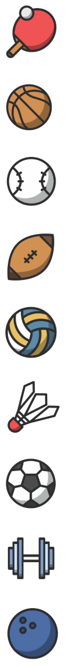
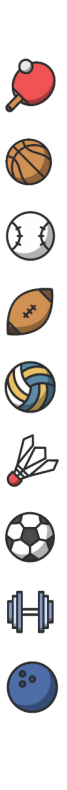
fix indexes in slot machine

diff --git a/CS179-Serverside/SelectSports/src/app/daily-login/daily-login.component.css b/CS179-Serverside/SelectSports/src/app/daily-login/daily-login.component.css
@@ -44,7 +44,7 @@
   top: 0;
   left: 0;
   width: 100%;
-  animation: reelRoll 0.5s linear infinite;
+  animation: reelRoll 0.3s linear infinite;
 }
 
 .rolling_reel-image-2 {
@@ -52,7 +52,7 @@
   top: 0;
   left: 0;
   width: 100%;
-  animation: reelRoll 0.5s linear infinite;
+  animation: reelRoll 0.3s linear infinite;
 }
 
 .rolling_reel-image-3 {
@@ -60,7 +60,7 @@
   top: 0;
   left: 0;
   width: 100%;
-  animation: reelRoll 0.5s linear infinite;
+  animation: reelRoll 0.3s linear infinite;
 }
 
 .rolling_reel-image-11 {
@@ -68,7 +68,7 @@
   top: 0;
   left: 0;
   width: 100%;
-  animation: reelRoll1 0.5s linear infinite;
+  animation: reelRoll1 0.3s linear infinite;
 }
 
 .rolling_reel-image-12 {
@@ -76,7 +76,7 @@
   top: 0;
   left: 0;
   width: 100%;
-  animation: reelRoll2 0.5s linear infinite;
+  animation: reelRoll2 0.3s linear infinite;
 }
 
 .rolling_reel-image-13 {
@@ -84,7 +84,7 @@
   top: 0;
   left: 0;
   width: 100%;
-  animation: reelRoll3 0.5s linear infinite;
+  animation: reelRoll3 0.3s linear infinite;
 }
 
 .rolling_reel-image-14 {
@@ -92,7 +92,7 @@
   top: 0;
   left: 0;
   width: 100%;
-  animation: reelRoll4 0.5s linear infinite;
+  animation: reelRoll4 0.3s linear infinite;
 }
 
 .rolling_reel-image-15 {
@@ -100,7 +100,7 @@
   top: 0;
   left: 0;
   width: 100%;
-  animation: reelRoll5 0.5s linear infinite;
+  animation: reelRoll5 0.3s linear infinite;
 }
 
 .rolling_reel-image-16 {
@@ -108,7 +108,7 @@
   top: 0;
   left: 0;
   width: 100%;
-  animation: reelRoll6 0.5s linear infinite;
+  animation: reelRoll6 0.3s linear infinite;
 }
 
 .rolling_reel-image-17 {
@@ -116,7 +116,7 @@
   top: 0;
   left: 0;
   width: 100%;
-  animation: reelRoll7 0.5s linear infinite;
+  animation: reelRoll7 0.3s linear infinite;
 }
 
 .rolling_reel-image-18 {
@@ -124,7 +124,7 @@
   top: 0;
   left: 0;
   width: 100%;
-  animation: reelRoll8 0.5s linear infinite;
+  animation: reelRoll8 0.3s linear infinite;
 }
 
 .rolling_reel-image-19 {
@@ -132,7 +132,7 @@
   top: 0;
   left: 0;
   width: 100%;
-  animation: reelRoll9 0.5s linear infinite;
+  animation: reelRoll9 0.3s linear infinite;
 }
 
 .symbol {
@@ -150,81 +150,81 @@
 
 @keyframes reelRoll1 {
   0% {
-    transform: translateY(-5.55%);
+    transform: translateY(-3%);
   }
   100% {
-    transform: translateY(-5.55%);
+    transform: translateY(-3%);
   }
 }
 
 @keyframes reelRoll2 {
   0% {
-    transform: translateY(-16.667%);
+    transform: translateY(-12%);
   }
   100% {
-    transform: translateY(-16.667%);
+    transform: translateY(-12%);
   }
 }
 
 @keyframes reelRoll3 {
   0% {
-    transform: translateY(-27.778%);
+    transform: translateY(-21.5%);
   }
   100% {
-    transform: translateY(-27.778%);
+    transform: translateY(-21.5%);
   }
 }
 
 @keyframes reelRoll4 {
   0% {
-    transform: translateY(-38.889%);
+    transform: translateY(-32%);
   }
   100% {
-    transform: translateY(-38.889%);
+    transform: translateY(-32%);
   }
 }
 
 @keyframes reelRoll5 {
   0% {
-    transform: translateY(-50%);
+    transform: translateY(-41.3%);
   }
   100% {
-    transform: translateY(-50%);
+    transform: translateY(-41.3%);
   }
 }
 
 @keyframes reelRoll6 {
   0% {
-    transform: translateY(-61.111%);
+    transform: translateY(-51%);
   }
   100% {
-    transform: translateY(-61.111%);
+    transform: translateY(-51%);
   }
 }
 
 @keyframes reelRoll7 {
   0% {
-    transform: translateY(-72.222%);
+    transform: translateY(-60%);
   }
   100% {
-    transform: translateY(-72.222%);
+    transform: translateY(-60%);
   }
 }
 
 @keyframes reelRoll8 {
   0% {
-    transform: translateY(-83.333%);
+    transform: translateY(-69.5%);
   }
   100% {
-    transform: translateY(-83.333%);
+    transform: translateY(-69.5%);
   }
 }
 
 @keyframes reelRoll9 {
   0% {
-    transform: translateY(-94.444%);
+    transform: translateY(-79%);
   }
   100% {
-    transform: translateY(-94.444%);
+    transform: translateY(-79%);
   }
 }

diff --git a/CS179-Serverside/SelectSports/src/app/daily-login/daily-login.component.html b/CS179-Serverside/SelectSports/src/app/daily-login/daily-login.component.html
@@ -43,7 +43,7 @@
       <img src="../../assets/SlotMachine/reel.png" class="rolling_reel-image-19" id="rolling_reel-image-39" style="display: none;" />
     </div>
   </div>
-  <img style="position:fixed; left: 0; top: 100px; height: 85vh; width: auto;"  src="../../assets/SlotMachine/reel.png">
+  <img style="position:fixed; left: 0; top: 100px; height: 85vh; width: auto;"  src="../../assets/SlotMachine/reel0.png">
 
   <button (click)="addPoints()" class="add-points-button">Add Daily Login Points</button>
   <button (click)="DailyLogin()" class="back-button">back</button>
